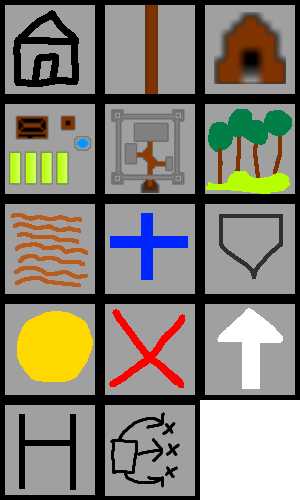
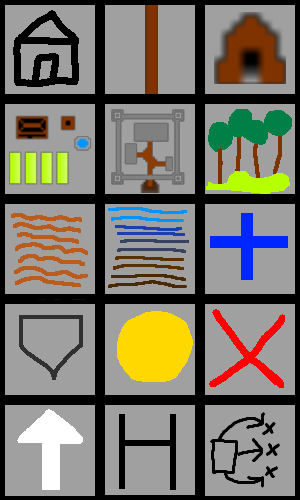
Beim Starten eine neuen Spiels/Laden eines Spielstandes wird jetzt der Bewegungsplan auch auf Standardwerte gesetzt. Weiter am Effektsystem für Kartenfelder/Einheiten gearbeitet. Angefangen das Aufgabensystem um einen Bereich für die Effektbehebung zu erweitern. Neue Beispielbilder erstellt. Contrac

diff --git a/README.md b/README.md
@@ -1,4 +1,4 @@
-# Honki Tonk´s Zivilisationen - Version: 0.04.6450
+# Honki Tonk´s Zivilisationen - Version: 0.04.6510
 Der Code meines 4X-Rundenstrategiespiels.
 Geschrieben in Ada mit der Standardbibliothek und [ASFML](https://github.com/mgrojo/ASFML). Nur unter Linux intensiv getestet, sollte aber auch unter anderen Betriebssystemen problemlos funktionieren.
 
@@ -15,6 +15,7 @@ Bilder/Pictures:
 ![Planetenkern/Planetcore](Beispielbilder/Planetenkern-Planetcore.png)
 ![Forschung/Research](Beispielbilder/Forschung-Research.png)
 ![Stadt/City](Beispielbilder/Stadt-City.png)
+![Stadt2/City2](Beispielbilder/Stadt2-City2.png)
 ![Bauen/Construct](Beispielbilder/Bauen-Construct.png)
 ![Orbit/Orbit](Beispielbilder/Orbit-Orbit.png)
 ![Unterirdisch/Underground](Beispielbilder/Unterirdisch-Underground.png)
